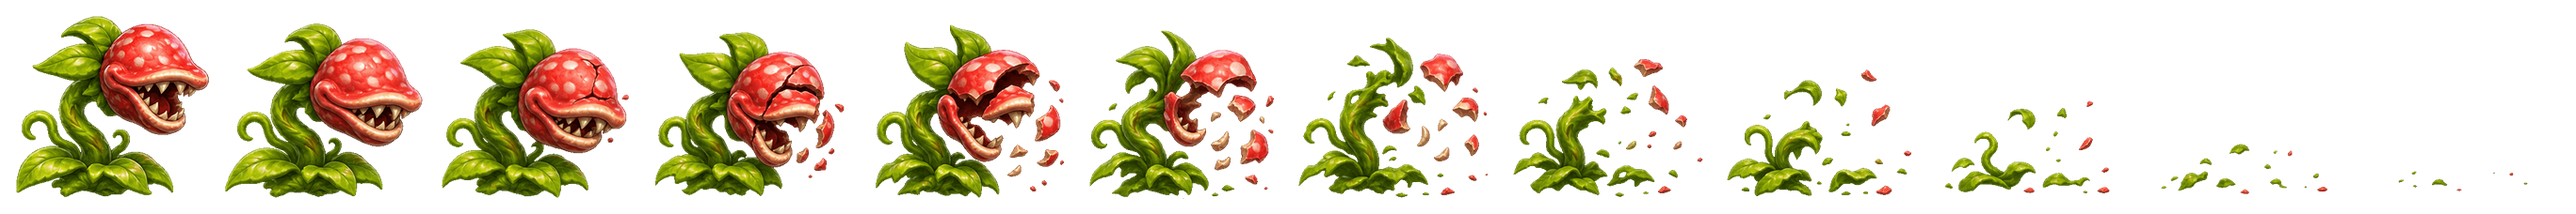
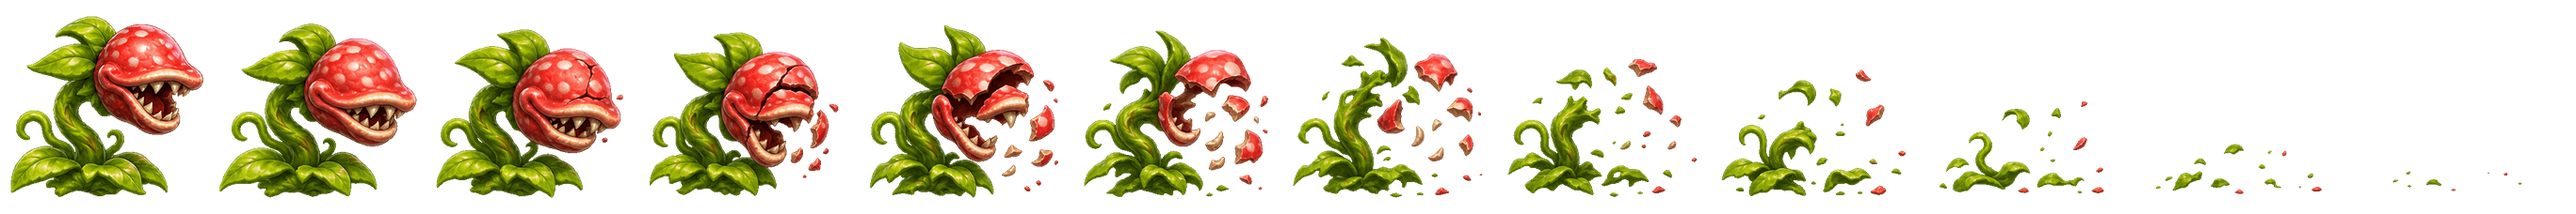
v1.00: çiçek yeni duruş; bukalemun, leopar, yaban domuzu ölüm animasyonları (ek şerit sistemi)
Claude-Session: https://claude.ai/code/session_015fAnPNTPRnCrrXVbYZQW8j

diff --git a/js/sistemler/dusmanlar.js b/js/sistemler/dusmanlar.js
@@ -42,6 +42,16 @@ Object.assign(OyunSahnesi.prototype, {
     const d = this.dusmanlar.create(e.x, y, 'd_' + e.tip, 0).setOrigin(0.5, oy / D.h).setScale(s).setDepth(6);
     d.body.setSize(bw, bh, false).setOffset((D.w - bw) / 2, ucan ? oy - bh / 2 : D.ayak - bh - gom);
     Object.assign(d, { ad: e.tip, tip: e.tip, hp, hiz, oldu: false, yon: 1 });
+    // v1.00: ek şeritlere (ASSETLER.ekKare) geçen animasyonlarda hücre farklı: ayak çizgisi ve gövde dünyada aynı yerde kalsın
+    if (Object.values(ASSETLER.ekKare).some(E => E.dusman === e.tip)) {
+      const taban = { w: D.w, oy, ox: d.body.offset.x, oyOff: d.body.offset.y };
+      d.on('animationstart', (anim) => {
+        const tk = anim.frames[0].textureKey, E = tk === 'd_' + d.ad ? null : ASSETLER.ekKare[tk.slice(2)];
+        const w = E ? E.w : taban.w, y0 = E ? E.ayak - gom : taban.oy, h = E ? E.h : D.h;
+        d.setOrigin(0.5, y0 / h);
+        d.body.setOffset(taban.ox + (w - taban.w) / 2, taban.oyOff + (y0 - taban.oy));
+      });
+    }
     if (ucan) d.body.setAllowGravity(false);
 
     if (e.tip === 'boss') {
@@ -546,11 +556,10 @@ Object.assign(OyunSahnesi.prototype, {
     d.body.setVelocity(0, 0);
     d.body.enable = false;
     if (d.ad === 'yarasa') return this.yarasaOlum(d, bitince);
-    if (d.ad === 'bitki') {   // v0.99: olduğu yerde ölüm animasyonu (ayak çizgisi aynı), bitince kaybolur
-      const B = ASSETLER.bitkiOl, s = Math.abs(d.scaleY), gom = (DUSMAN_GOMME.bitki || 0) / s;
-      d.setTexture('d_bitkiOl', 0).setOrigin(0.5, (B.ayak - gom) / B.h);
-      d.play('d_bitkiOl');
-      d.once('animationcomplete', () => { d.destroy(); if (bitince) bitince(); });
+    if (ASSETLER.ekKare[d.ad + 'Ol']) {   // v1.00: ek şeritten olduğu yerde ölüm; son karede 1 sn kalıp solar (bitki son karede boş → hemen)
+      d.angle = 0; d.play('d_' + d.ad + 'Ol');
+      d.once('animationcomplete', () => this.time.delayedCall(d.ad === 'bitki' ? 0 : 1000, () => this.tweens.add({
+        targets: d, alpha: 0, duration: d.ad === 'bitki' ? 1 : 400, onComplete: () => { d.destroy(); if (bitince) bitince(); } })));
       return;
     }
     d.play('d_' + d.ad + '_ol');

diff --git a/js/sahneler/BootSahnesi.js b/js/sahneler/BootSahnesi.js
@@ -24,7 +24,7 @@ class BootSahnesi extends Phaser.Scene {
       if (D.anim) L.spritesheet('d_' + ad, 'assets/dusman/' + ad + '.png', { frameWidth: D.w, frameHeight: D.h });
       else L.image(ad, 'assets/dusman/' + ad + '.png');
     });
-    L.spritesheet('d_bitkiOl', 'assets/dusman/bitkiOl.png', { frameWidth: A.bitkiOl.w, frameHeight: A.bitkiOl.h });   // v0.99
+    Object.entries(A.ekKare).forEach(([ad, E]) => L.spritesheet('d_' + ad, 'assets/dusman/' + ad + '.png', { frameWidth: E.w, frameHeight: E.h }));   // v1.00 ek şeritler
     L.spritesheet('d_yarasaOl', 'assets/dusman/yarasaOl.png', { frameWidth: A.yarasaOl.w, frameHeight: A.yarasaOl.h });   // v0.98
     // Arayüz ve harfler
     A.ui.forEach(ad => L.image('ui_' + ad, 'assets/ui/' + ad + '.png'));
@@ -118,7 +118,11 @@ class BootSahnesi extends Phaser.Scene {
     // v0.98: yarasa ölümü — 0–3 havada (bir kez), 5–8 yere düşünce (bir kez); 3 düşerken, 4 yere yaklaşınca kare olarak
     const yk = (k, kareler) => this.anims.create({ key: 'd_yarasaOl_' + k, frames: kareler.map(frame => ({ key: 'd_yarasaOl', frame })), frameRate: 8, repeat: 0 });
     yk('hava', [0, 1, 2, 3]); yk('yer', [5, 6, 7, 8]);
-    // v0.99: bitki ölümü — tüm kareler yerinde bir kez
-    this.anims.create({ key: 'd_bitkiOl', frames: this.anims.generateFrameNumbers('d_bitkiOl', { start: 0, end: ASSETLER.bitkiOl.kare - 1 }), frameRate: 9, repeat: 0 });
+    // v1.00: ek şeritler (araclar/ekKareKes.py): d_<ad>; <düşman>Bekle varsa d_<düşman>_bekle onunla değişir
+    Object.entries(ASSETLER.ekKare).forEach(([ad, E]) => {
+      const key = ad === E.dusman + 'Bekle' ? 'd_' + E.dusman + '_bekle' : 'd_' + ad;
+      if (this.anims.exists(key)) this.anims.remove(key);
+      this.anims.create({ key, frames: this.anims.generateFrameNumbers('d_' + ad, { start: 0, end: E.kare - 1 }), frameRate: E.fps, repeat: E.dongu ? -1 : 0 });
+    });
   }
 }

diff --git a/js/veri/assetlar.js b/js/veri/assetlar.js
@@ -33,5 +33,7 @@ ASSETLER.oyuncu = {"kare": {"w": 352, "h": 282, "ayakY": 250, "ayakBoy": 234}, "
 // Yarasa ölüm şeridi (araclar/yarasaOlKes.py): hücre, yer çizgisi, uçarkenki gövde ortası (yarasa.png ölçeğinde)
 ASSETLER.yarasaOl = {"w": 203, "h": 191, "ayak": 171, "merkez": 99, "kare": 9};
 
-// Bitki ölüm şeridi (araclar/bitkiOlKes.py): hücre, ayak çizgisi (bitki.png ölçeğinde)
-ASSETLER.bitkiOl = {"w": 228, "h": 228, "ayak": 210, "kare": 12};
+
+
+// Düşman ek şeritleri (araclar/ekKareKes.py): hücre, ayak çizgisi, fps (ana şerit ölçeğinde)
+ASSETLER.ekKare = {"bitkiOl": {"dusman": "bitki", "w": 228, "h": 228, "ayak": 210, "kare": 12, "fps": 9, "dongu": false}, "bitkiBekle": {"dusman": "bitki", "w": 224, "h": 233, "ayak": 216, "kare": 12, "fps": 7, "dongu": true}, "kertenkeleOl": {"dusman": "kertenkele", "w": 206, "h": 206, "ayak": 188, "kare": 12, "fps": 7, "dongu": false}, "kediOl": {"dusman": "kedi", "w": 208, "h": 184, "ayak": 174, "kare": 9, "fps": 7, "dongu": false}, "domuzOl": {"dusman": "domuz", "w": 243, "h": 218, "ayak": 200, "kare": 9, "fps": 6, "dongu": false}};

diff --git a/js/ayarlar.js b/js/ayarlar.js
@@ -1,6 +1,6 @@
 // Popeye Tales (Atari) — oyun ayarları. Tüm uzunluklar dünya pikseli (1 karo = 32 px), süreler saniye.
 const CONFIG = {
-  surum: 'v0.99',
+  surum: 'v1.00',
   bayrakBoy: 57.6,      // kontrol noktası bayrağının boyu
   ustUsteGomme: 4,
   tasYukari: 3,         // kırılır taşlar (kasa hariç) yerde bu kadar yukarıda çizilir (bölümde tasZeminYukari varsa o)

diff --git a/araclar/ekKareKes.py b/araclar/ekKareKes.py
@@ -1,0 +1,34 @@
+# v1.00: düşmanlara ayrı GIF'lerden ek animasyon şeritleri (assets/dusman/<ad>.png), ana şerit (dusmanKes.py) değişmeden.
+# Ölçek: GIF'in ilk karesinin genişliği = ana şeridin ilk karesinin genişliği (oyunda aynı s ile çizilir).
+# Yatay: ilk karelerin kutu ortası ana şeritteki ilk karenin kutu ortasına (hücre ortasına göre) hizalanır.
+# ayak = ilk karenin alt kenarı (ana şeridin ayak çizgisiyle eşlenir). Oyun bu hücreye geçerken origin / gövde ofsetini ayarlar.
+import json, re
+import numpy as np
+from PIL import Image, ImageSequence
+KOK = __file__.rsplit('/araclar/', 1)[0]
+EK = {   # ad: (düşman, kaynak GIF, fps, döngü)
+    'bitkiOl': ('bitki', 'bitki_ol.gif', 9, False),            # v0.99: yerinde ölüm
+    'bitkiBekle': ('bitki', 'bitki_bekle.gif', 7, True),       # v1.00: saldırmazken duruş
+    'kertenkeleOl': ('kertenkele', 'kertenkele_ol.gif', 7, False),   # v1.00: yerinde ölüm, sonra 1 sn bekleyip solar
+    'kediOl': ('kedi', 'kedi_ol.gif', 7, False),               # v1.00: bıçaklı leopar
+    'domuzOl': ('domuz', 'domuz_ol.gif', 6, False),            # v1.00: yaban domuzu
+}
+ap = KOK + '/js/veri/assetlar.js'; s = open(ap, encoding='utf8').read()
+D = json.loads(re.search(r'ASSETLER.dusman = (\{.*\});', s).group(1))
+meta = {}
+for ad, (dus, gif, fps, dongu) in EK.items():
+    d = D[dus]; b = Image.open(KOK + '/assets/dusman/' + dus + '.png').crop((0, 0, d['w'], d['h'])).getbbox()
+    fr = [f.convert('RGBA') for f in ImageSequence.Iterator(Image.open(KOK + '/assets/kaynak/' + gif))]
+    g0 = fr[0].getbbox(); r = (b[2] - b[0]) / (g0[2] - g0[0])
+    W, H = round(fr[0].width * r), round(fr[0].height * r)
+    dx = round(((b[0] + b[2]) / 2 - d['w'] / 2) - ((g0[0] + g0[2]) / 2 * r - W / 2))
+    serit = Image.new('RGBA', (W * len(fr), H))
+    for i, f in enumerate(fr):
+        a = np.array(f.resize((W, H), Image.LANCZOS)); a[a[:, :, 3] < 30] = 0
+        c = Image.new('RGBA', (W, H)); c.paste(Image.fromarray(a), (dx, 0)); serit.paste(c, (i * W, 0))
+    serit.save(KOK + '/assets/dusman/' + ad + '.png', optimize=True)
+    meta[ad] = {'dusman': dus, 'w': W, 'h': H, 'ayak': round(g0[3] * r), 'kare': len(fr), 'fps': fps, 'dongu': dongu}
+s = re.sub(r'\n// Bitki ölüm[^\n]*\nASSETLER.bitkiOl = [^\n]*;\n', '\n', s)
+s = re.sub(r'\n// Düşman ek şeritleri[^\n]*\nASSETLER.ekKare = [^\n]*;\n', '\n', s)
+s += '\n// Düşman ek şeritleri (araclar/ekKareKes.py): hücre, ayak çizgisi, fps (ana şerit ölçeğinde)\nASSETLER.ekKare = ' + json.dumps(meta) + ';\n'
+open(ap, 'w', encoding='utf8').write(s); print(meta)

diff --git a/OYUN.md b/OYUN.md
@@ -144,4 +144,4 @@ Görünür boy `CONFIG.oyuncu.boy` 66.21. Oyuncu sayfaları v0.78'den beri 2 kat
 - **Bastonla zıplama (v0.95)**: açılınca / havadayken `pogoHava` karesi `kaynak/oyuncu_pogoHava.png` (karakter boyu şapka genişliğine göre eskisiyle aynı, baston ucu ayak çizgisinde). Sekme kareleri eski.
 - **Tek / yığın itme (v0.96)**: önde tek nesne varsa `itAlt` (`kaynak/oyuncu_itAlt.gif`, eller aşağıda; 1–7 döngü, 8. kare dururken `itAltDur`); üst üste 2+ nesne varsa eski `it` / `itDur` (eller yukarıda) ve üstteki(ler) alttakiyle birlikte itilir (`yiginBul`). oyuncu2.png 6 satır.
 - **Yarasa ölümü (v0.98)**: `kaynak/yarasa_ol.gif` → `dusman/yarasaOl.png` (`araclar/yarasaOlKes.py`). 1–4. kareler havada, 4. karede yere düşer, yere 30 px kala 5. kare, yere değince 6–9, 1 sn sonra solarak kaybolur (`yarasaOlum`).
-- **Bitki ölümü (v0.99)**: `kaynak/bitki_ol.gif` → `dusman/bitkiOl.png` (`araclar/bitkiOlKes.py`); olduğu yerde 12 kare bir kez oynar, sonra yok olur.
+- **Ek düşman şeritleri (v1.00, `araclar/ekKareKes.py`)**: ayrı GIF'lerden `dusman/<ad>.png`, ana şerit ölçeğinde; geçişte origin/gövde ofseti ayarlanır. `bitkiBekle` (çiçek saldırmazken duruş; saldırı eski), ölümler olduğu yerde: `bitkiOl` (biter → yok olur), `kertenkeleOl` (bukalemun), `kediOl` (bıçaklı leopar), `domuzOl` (yaban domuzu) — son karede 1 sn kalıp solar.
